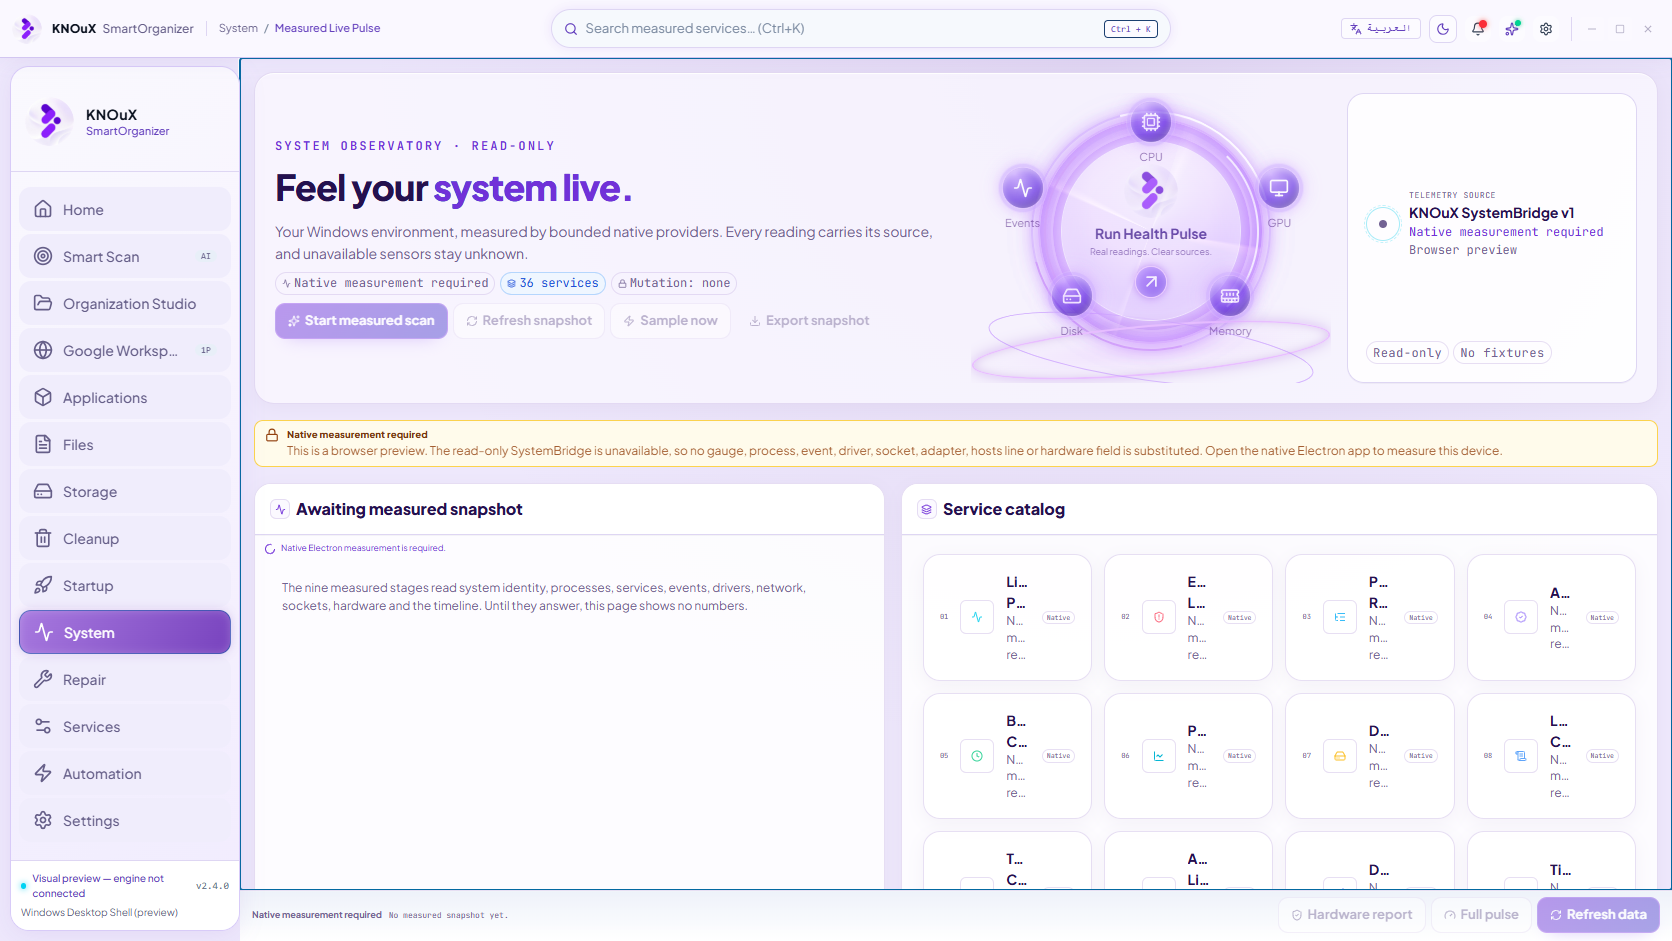
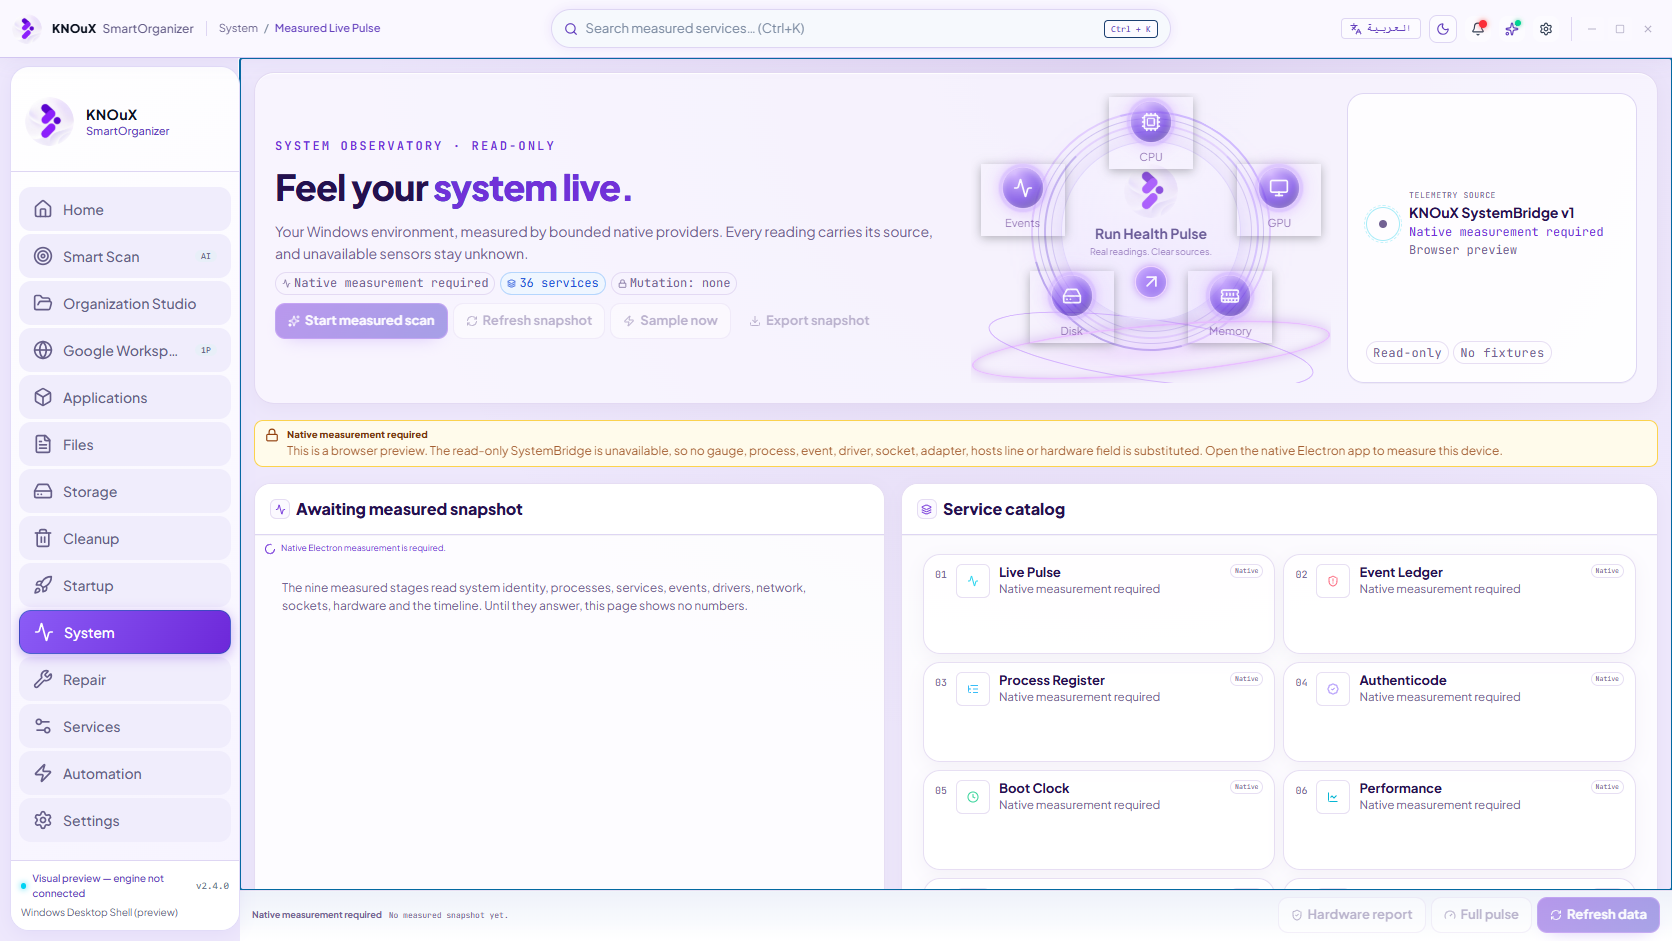
fix(visual): make the System service register readable
The register laid twelve services out in four columns with an 8.5px nowrap
title beside a 22px icon, an index and a state chip. That left roughly thirty
pixels for text, so every service name ellipsized to one or two characters and
the page failed the minimum readable-metadata size.

Two columns, a 13px wrapping title and an 11.5px subtitle restore the real
names. This is done in the shared restraint layer rather than system.css, which
the other agent on the visual-sprint worktree has open as uncommitted work.

diff --git a/apps/gemini-ui/src/visual/reference-restraint.css b/apps/gemini-ui/src/visual/reference-restraint.css
@@ -250,6 +250,47 @@ html[data-theme='light'] .visual-sprint:not([data-reference-shell='true']) .knx-
 }
 
 /* ==========================================================================
+   System service register — readable titles
+   ========================================================================== */
+
+/* The register shipped as four columns with an 8.5px nowrap title beside a
+   22px icon, an index and a state chip, which left about thirty pixels of text
+   and ellipsized every service name down to one or two characters. Two columns
+   and a wrapping label restore a readable name without touching the page's own
+   stylesheet. */
+.visual-sprint[data-reference-shell='true'] .sys-service-grid {
+  grid-template-columns: repeat(2, minmax(0, 1fr));
+  gap: 8px;
+}
+
+.visual-sprint[data-reference-shell='true'] .sys-service-copy strong {
+  font-size: 13px;
+  white-space: normal;
+  overflow: visible;
+  text-overflow: clip;
+  line-height: 1.3;
+}
+
+.visual-sprint[data-reference-shell='true'] .sys-service-copy em {
+  font-size: 11.5px;
+  white-space: normal;
+  overflow: visible;
+  text-overflow: clip;
+  line-height: 1.35;
+}
+
+.visual-sprint[data-reference-shell='true'] .sys-service-card {
+  align-items: flex-start;
+  gap: 9px;
+  padding: 9px 11px;
+}
+
+.visual-sprint[data-reference-shell='true'] .sys-service-index {
+  font-size: 10px;
+  padding-top: 3px;
+}
+
+/* ==========================================================================
    Sidebar — the references show a navy rail with a violet active pill,
    not a violet panel. Studio duplicates this rule, so both are covered.
    ========================================================================== */
